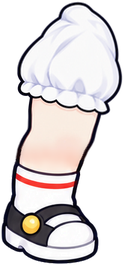
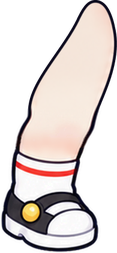
fix(desktop-pet): 店员装的腿去掉灯笼裤，尾巴挪进身体绕尾根转
店员装的裙腰窄，沿用女仆装的宽灯笼裤会从裙子两侧露出来；尾巴绕裙边转，
摇尾、走动和坐下时尾根甩到裙子外面，看起来和身体断开。

- 两条腿换成没有灯笼裤的版本，上端收成腿根藏在裙子里，裙摆以下不变
- 尾巴仍用女仆装的贴图，往身体里挪 14，绕藏在裙子后面的尾根转
- figure.js 加 outfit 字段 tailRoot：尾根不动，弯曲从尾根往尾尖加大，
  尾尖跟在后面；没设的服装照旧
- 重出店员装缩略图

diff --git a/packages/cortico-world-desktop-pet/web/whale/figure.js b/packages/cortico-world-desktop-pet/web/whale/figure.js
@@ -188,7 +188,9 @@ export async function createWhaleFigure(base = new URL('./', import.meta.url), o
     }
     // how far the arms fly out while she is held, as a share of the maid dress's (short sleeves look wrong flung wide)
     const heldArms = outfitInfo(of).heldArms ?? 1;
-    return { PV, deformers, parts, brows, creases, swings, heldArms };
+    // an outfit whose tail turns about its root inside the body (`tailRoot`) bends it from there to the tip (see `tailBend`)
+    const tailRoot = outfitInfo(of).tailRoot ? { x: PV.tail[0], tip: rectOf('tail')[0] } : null;
+    return { PV, deformers, parts, brows, creases, swings, heldArms, tailRoot };
   }
   let L = layoutOf(outfit);
 
@@ -643,7 +645,12 @@ export async function createWhaleFigure(base = new URL('./', import.meta.url), o
     st.legBack = { fn: hinge(L.PV.legBack, lerp(legA[0], -55, sitK), (-lift[0] * .9 - behind[0]) * (1 - sitK)) };
     st.legFront = { fn: hinge(L.PV.legFront, lerp(legA[1], -60, sitK), (-lift[1] * .9 - behind[1]) * (1 - sitK)) };
     st.tail = { a: tail - 10 * sitK };
-    st.tailBend = { fn: u => [0, -tail * .5 * u * u] };
+    // the maid dress's tail turns about the edge of the skirt and bends most at its root end, out of sight under the
+    // skirt; one that turns about its root inside the body stays put there and its tip trails the turn
+    const tr = L.tailRoot;
+    st.tailBend = tr
+      ? { fn: (u, v, x) => { const k = clamp((tr.x - x) / (tr.x - tr.tip), 0, 1); return [0, tail * .3 * k * k]; } }
+      : { fn: u => [0, -tail * .5 * u * u] };
     // the head stays up while she leans forward for the ninja run
     st.neck = { a: headA + clamp(bend * .8, -10, 12) - runK * 12, ty: (mode === 'sleep' ? 2.5 : 0) + breath * .35 };
     const parallax = (k, ky) => (u, v) => [angleX * k * bump(u) * (.4 + .6 * bump(v)), angleY * ky * bump(v) * (.4 + .6 * bump(u))];

diff --git a/packages/cortico-world-desktop-pet/examples/whale/README.md b/packages/cortico-world-desktop-pet/examples/whale/README.md
@@ -36,13 +36,15 @@ B 站 DeepSeek 二创里的蓝发鲸鱼女仆，做成 Coo 的另一个身体。
 服装是形象包的第二维（`figure.json` 的 `axes` 里的 `outfit`，每个选项带一张全身缩略图 `thumbs/<id>.png`），和配色连写成 `<配色>-<服装>`，比如 `claude-cape`；只写配色就是女仆装。
 女仆装的部件是 `model.json` 的 `parts`，别的服装在 `model.outfits` 里列出自己的全部部件：没有 `src` 的按 `tex` 名从 `tex/` 和各配色的 `schemes/<id>/tex/` 取，跟着配色换色，
 多数是沿用女仆装的同名贴图（头发、脸、尾巴），也有服装自己画、每套配色各一张的（店员装的头发和裙子）；有 `src` 的是这套服装自己的贴图（`outfits/<id>/`），哪套配色都一样。服装可以覆盖枢轴（`pivots`），也可以带挂件（`deformers`）；`heldArms` 是被拎起时两只手臂张开的角度相对女仆装的比例，默认 1。
+女仆装的尾巴绕裙边转，尾根那头弯得最多；`tailRoot` 为真时尾巴绕 `pivots.tail` 给的尾根转，尾根不动，弯曲从尾根往尾尖加大，尾尖跟在后面。
 换服装要重建部件，所以是直接切换，不渐变；`figure.scheme` 返回 `<配色>-<服装>`。
 
 挂件是钟摆，每个给出枢轴、挂在哪个变形器上和 `gain`：不管头、身体和整组怎么转都保持下垂，被拎起甩动、走路、点头、落地、转脸时荡起来，荡几下停住，站着时轻轻晃。
 `gain` 是摆动的自由程度，系带上的毛球是 1，围巾尾巴是 0.5（布只垂一半）。
 冬装的部件：兜帽（后层、内衬、前沿、两只鳍、喷水）、两根系带、斗篷、披肩、围巾（领口和前后两条尾巴）、裙子、坐姿下半身、两条腿、两只手臂和远侧袖口前层；头发、脸、五官和尾巴用女仆装的。
 店员装的部件：单马尾（挂在扎口上的挂件，`gain` 0.35，扎口的蝴蝶结跟着它）、后发（只到后颈）、鬓发、遮阳帽、耳麦、鳍上方的蝴蝶结、上身、两只手臂、裙子（含围裙和小包）、坐姿下半身、两条腿；
-脸、五官、刘海、两只鲸鳍、呆毛和尾巴用女仆装的。马尾、后发、鬓发、裙子和坐姿下半身是这套服装自己画的，每套配色各一张（`tex/crew_*.png`、`schemes/<id>/tex/crew_*.png`）：头发跟着配色换色，围裙上的小鲸鱼换成配色对应厂商的标志；其余自有部件哪套配色都一样。远侧手臂的姿势和手势、灯笼裤和大腿的粗细照女仆装；近侧肩头朝身体一侧不描边，抬手时和衬衫接得上；被拎起时手臂张开的角度是女仆装的 0.55（`heldArms`）。
+脸、五官、刘海、两只鲸鳍、呆毛和尾巴用女仆装的。马尾、后发、鬓发、裙子和坐姿下半身是这套服装自己画的，每套配色各一张（`tex/crew_*.png`、`schemes/<id>/tex/crew_*.png`）：头发跟着配色换色，围裙上的小鲸鱼换成配色对应厂商的标志；其余自有部件哪套配色都一样。远侧手臂的姿势和手势、大腿的粗细照女仆装；腿没有灯笼裤，上端收窄藏在裙子里；近侧肩头朝身体一侧不描边，抬手时和衬衫接得上；被拎起时手臂张开的角度是女仆装的 0.55（`heldArms`）。
+尾巴用女仆装的贴图，往身体里挪 14，绕藏在裙子后面的尾根转（`tailRoot`）。
 
 ## 构成
 
